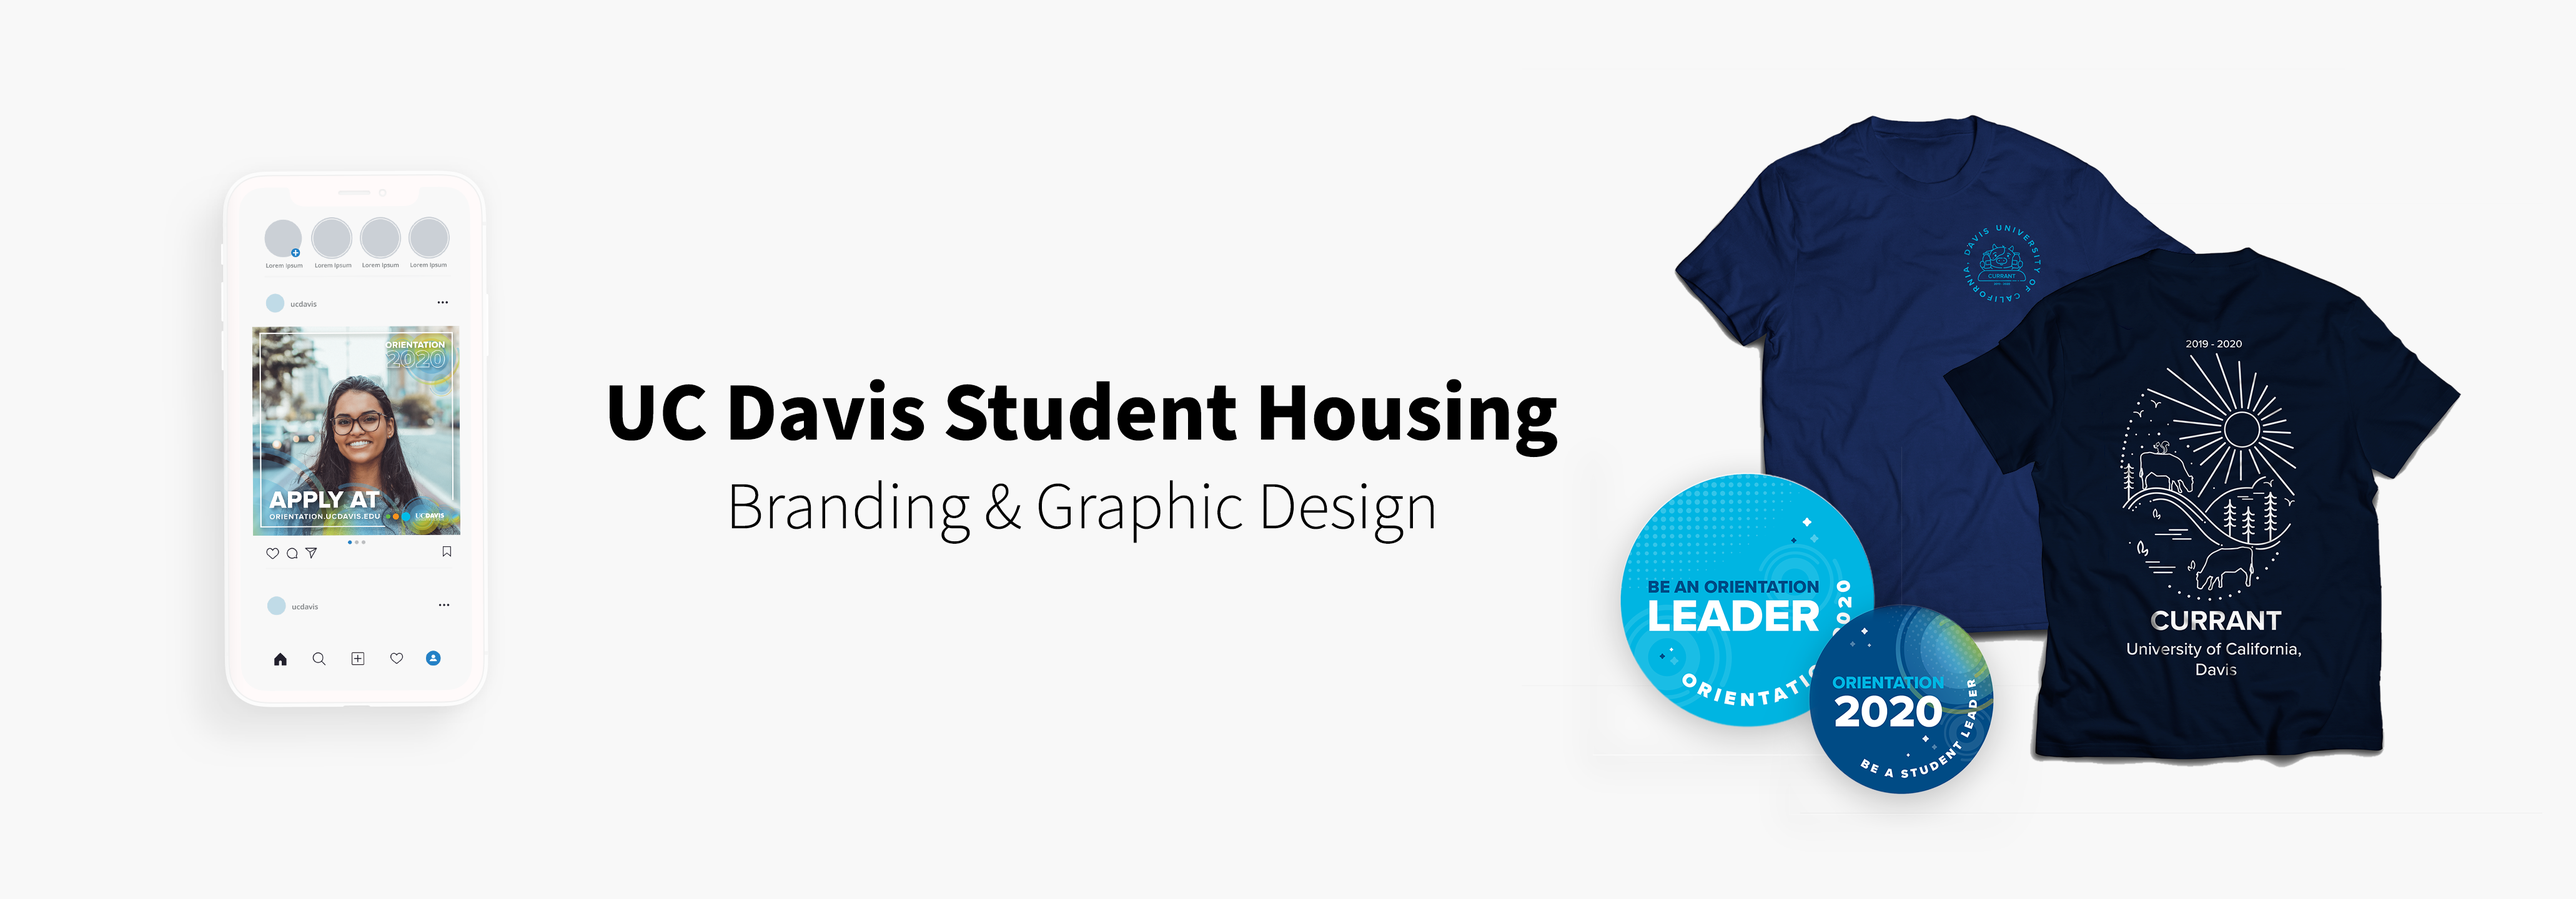
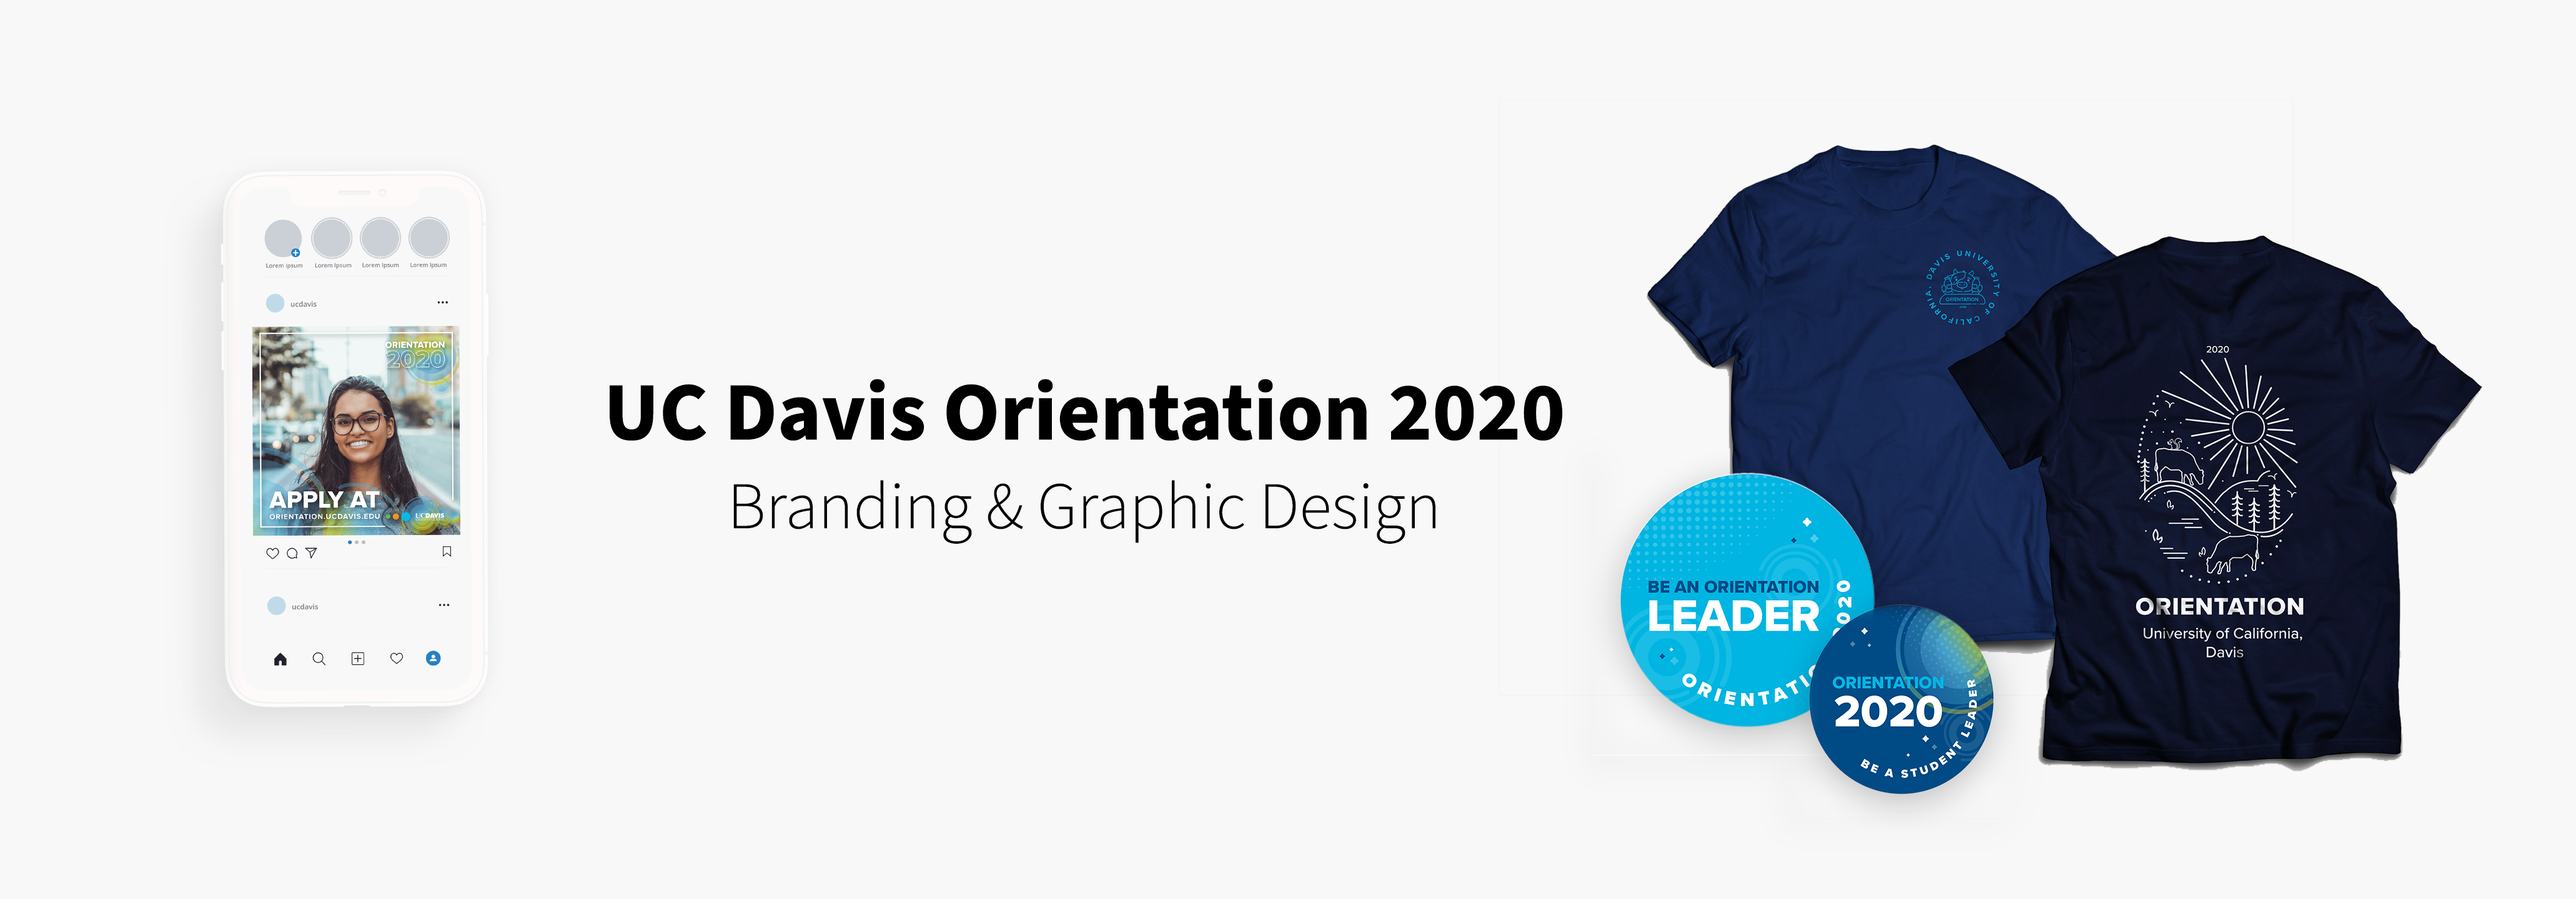
edited index

diff --git a/index.html b/index.html
@@ -70,7 +70,7 @@
 			<div class="proj">
 				<div class="proj-desc">
 					<h3>Branding & Graphic Design</h3>
-					<h4>Orientation 2020</h4>
+					<h4>UC Davis Orientation 2020</h4>
 					<h5>Designed UC Davis Student Housing marketing materials and brand identity for UC Davis Orientation 2020.</h5>
 						<a href = "#">
 							<div class="proj-btn">

diff --git a/styles.css b/styles.css
@@ -293,7 +293,7 @@ h3 {
 }
 
 h4{
-	font-size: 40px;
+	font-size: 38px;
 	font-weight: 600;
 	color: #071013;
 }
